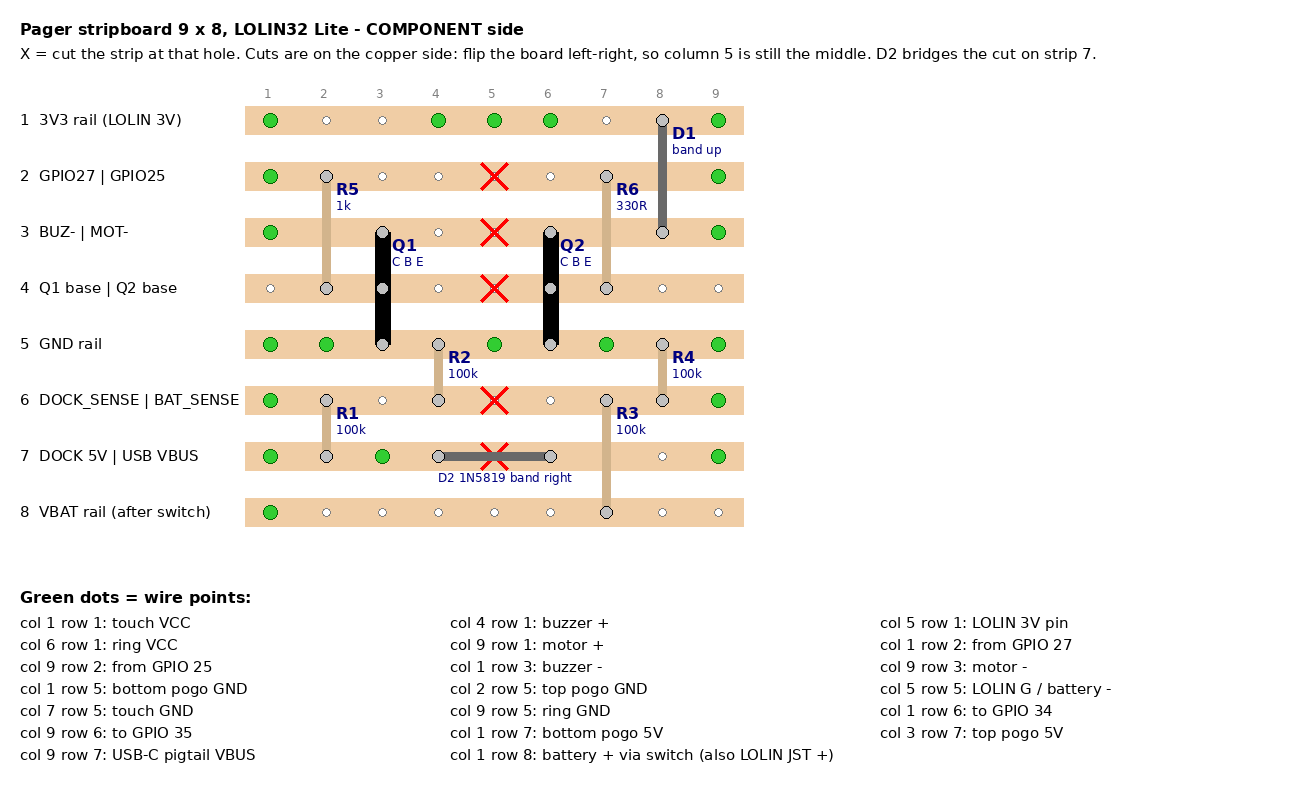
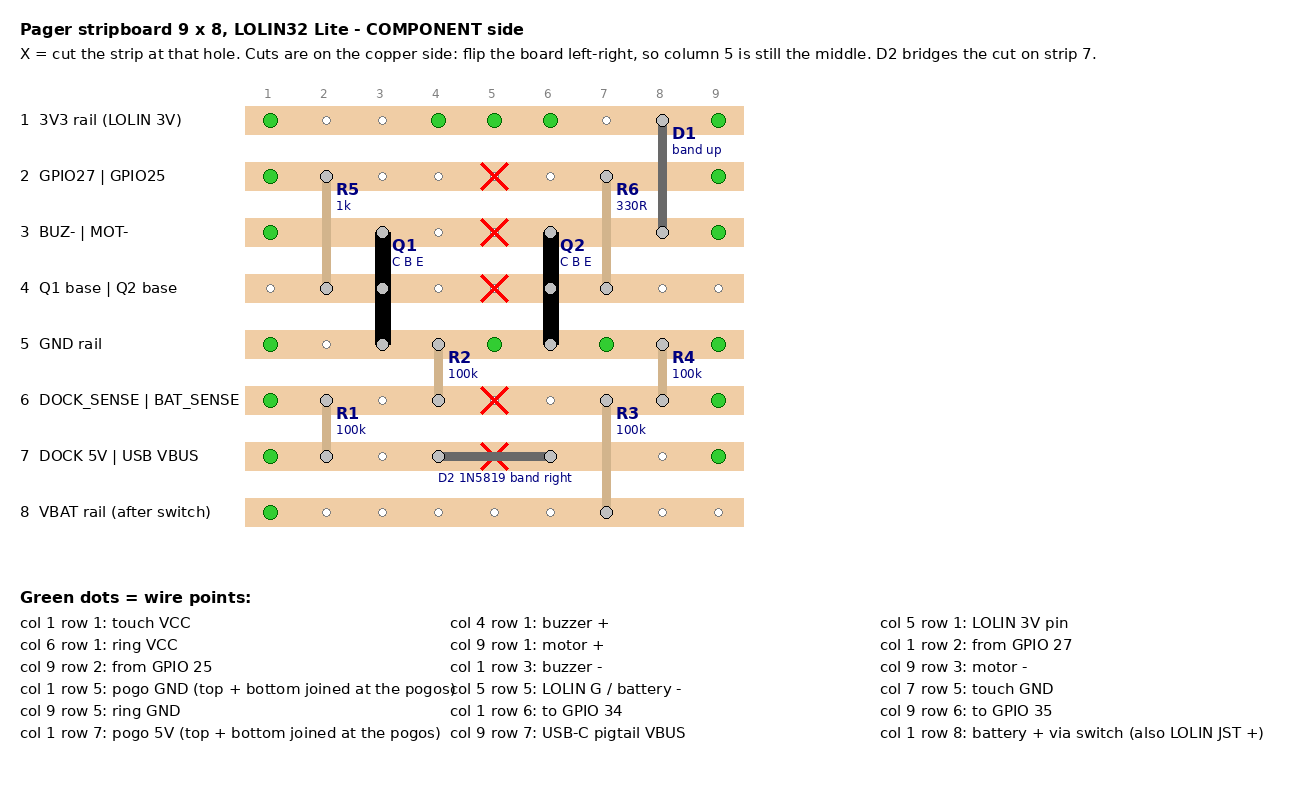
Stripboard: single pogo 5V / GND wire (pogos joined directly)
Claude-Session: https://claude.ai/code/session_016rvrxpLKBnY1fDA5ftg5XD

diff --git a/proto/stripboard.py b/proto/stripboard.py
@@ -26,9 +26,9 @@ WIRES = [
     (1, 1, "touch VCC"), (4, 1, "buzzer +"), (5, 1, "LOLIN 3V pin"), (6, 1, "ring VCC"), (9, 1, "motor +"),
     (1, 2, "from GPIO 27"), (9, 2, "from GPIO 25"),
     (1, 3, "buzzer -"), (9, 3, "motor -"),
-    (1, 5, "bottom pogo GND"), (2, 5, "top pogo GND"), (5, 5, "LOLIN G / battery -"), (7, 5, "touch GND"), (9, 5, "ring GND"),
+    (1, 5, "pogo GND (top + bottom joined at the pogos)"), (5, 5, "LOLIN G / battery -"), (7, 5, "touch GND"), (9, 5, "ring GND"),
     (1, 6, "to GPIO 34"), (9, 6, "to GPIO 35"),
-    (1, 7, "bottom pogo 5V"), (3, 7, "top pogo 5V"), (9, 7, "USB-C pigtail VBUS"),
+    (1, 7, "pogo 5V (top + bottom joined at the pogos)"), (9, 7, "USB-C pigtail VBUS"),
     (1, 8, "battery + via switch (also LOLIN JST +)"),
 ]
 P, X0, Y0 = 56, 270, 120
